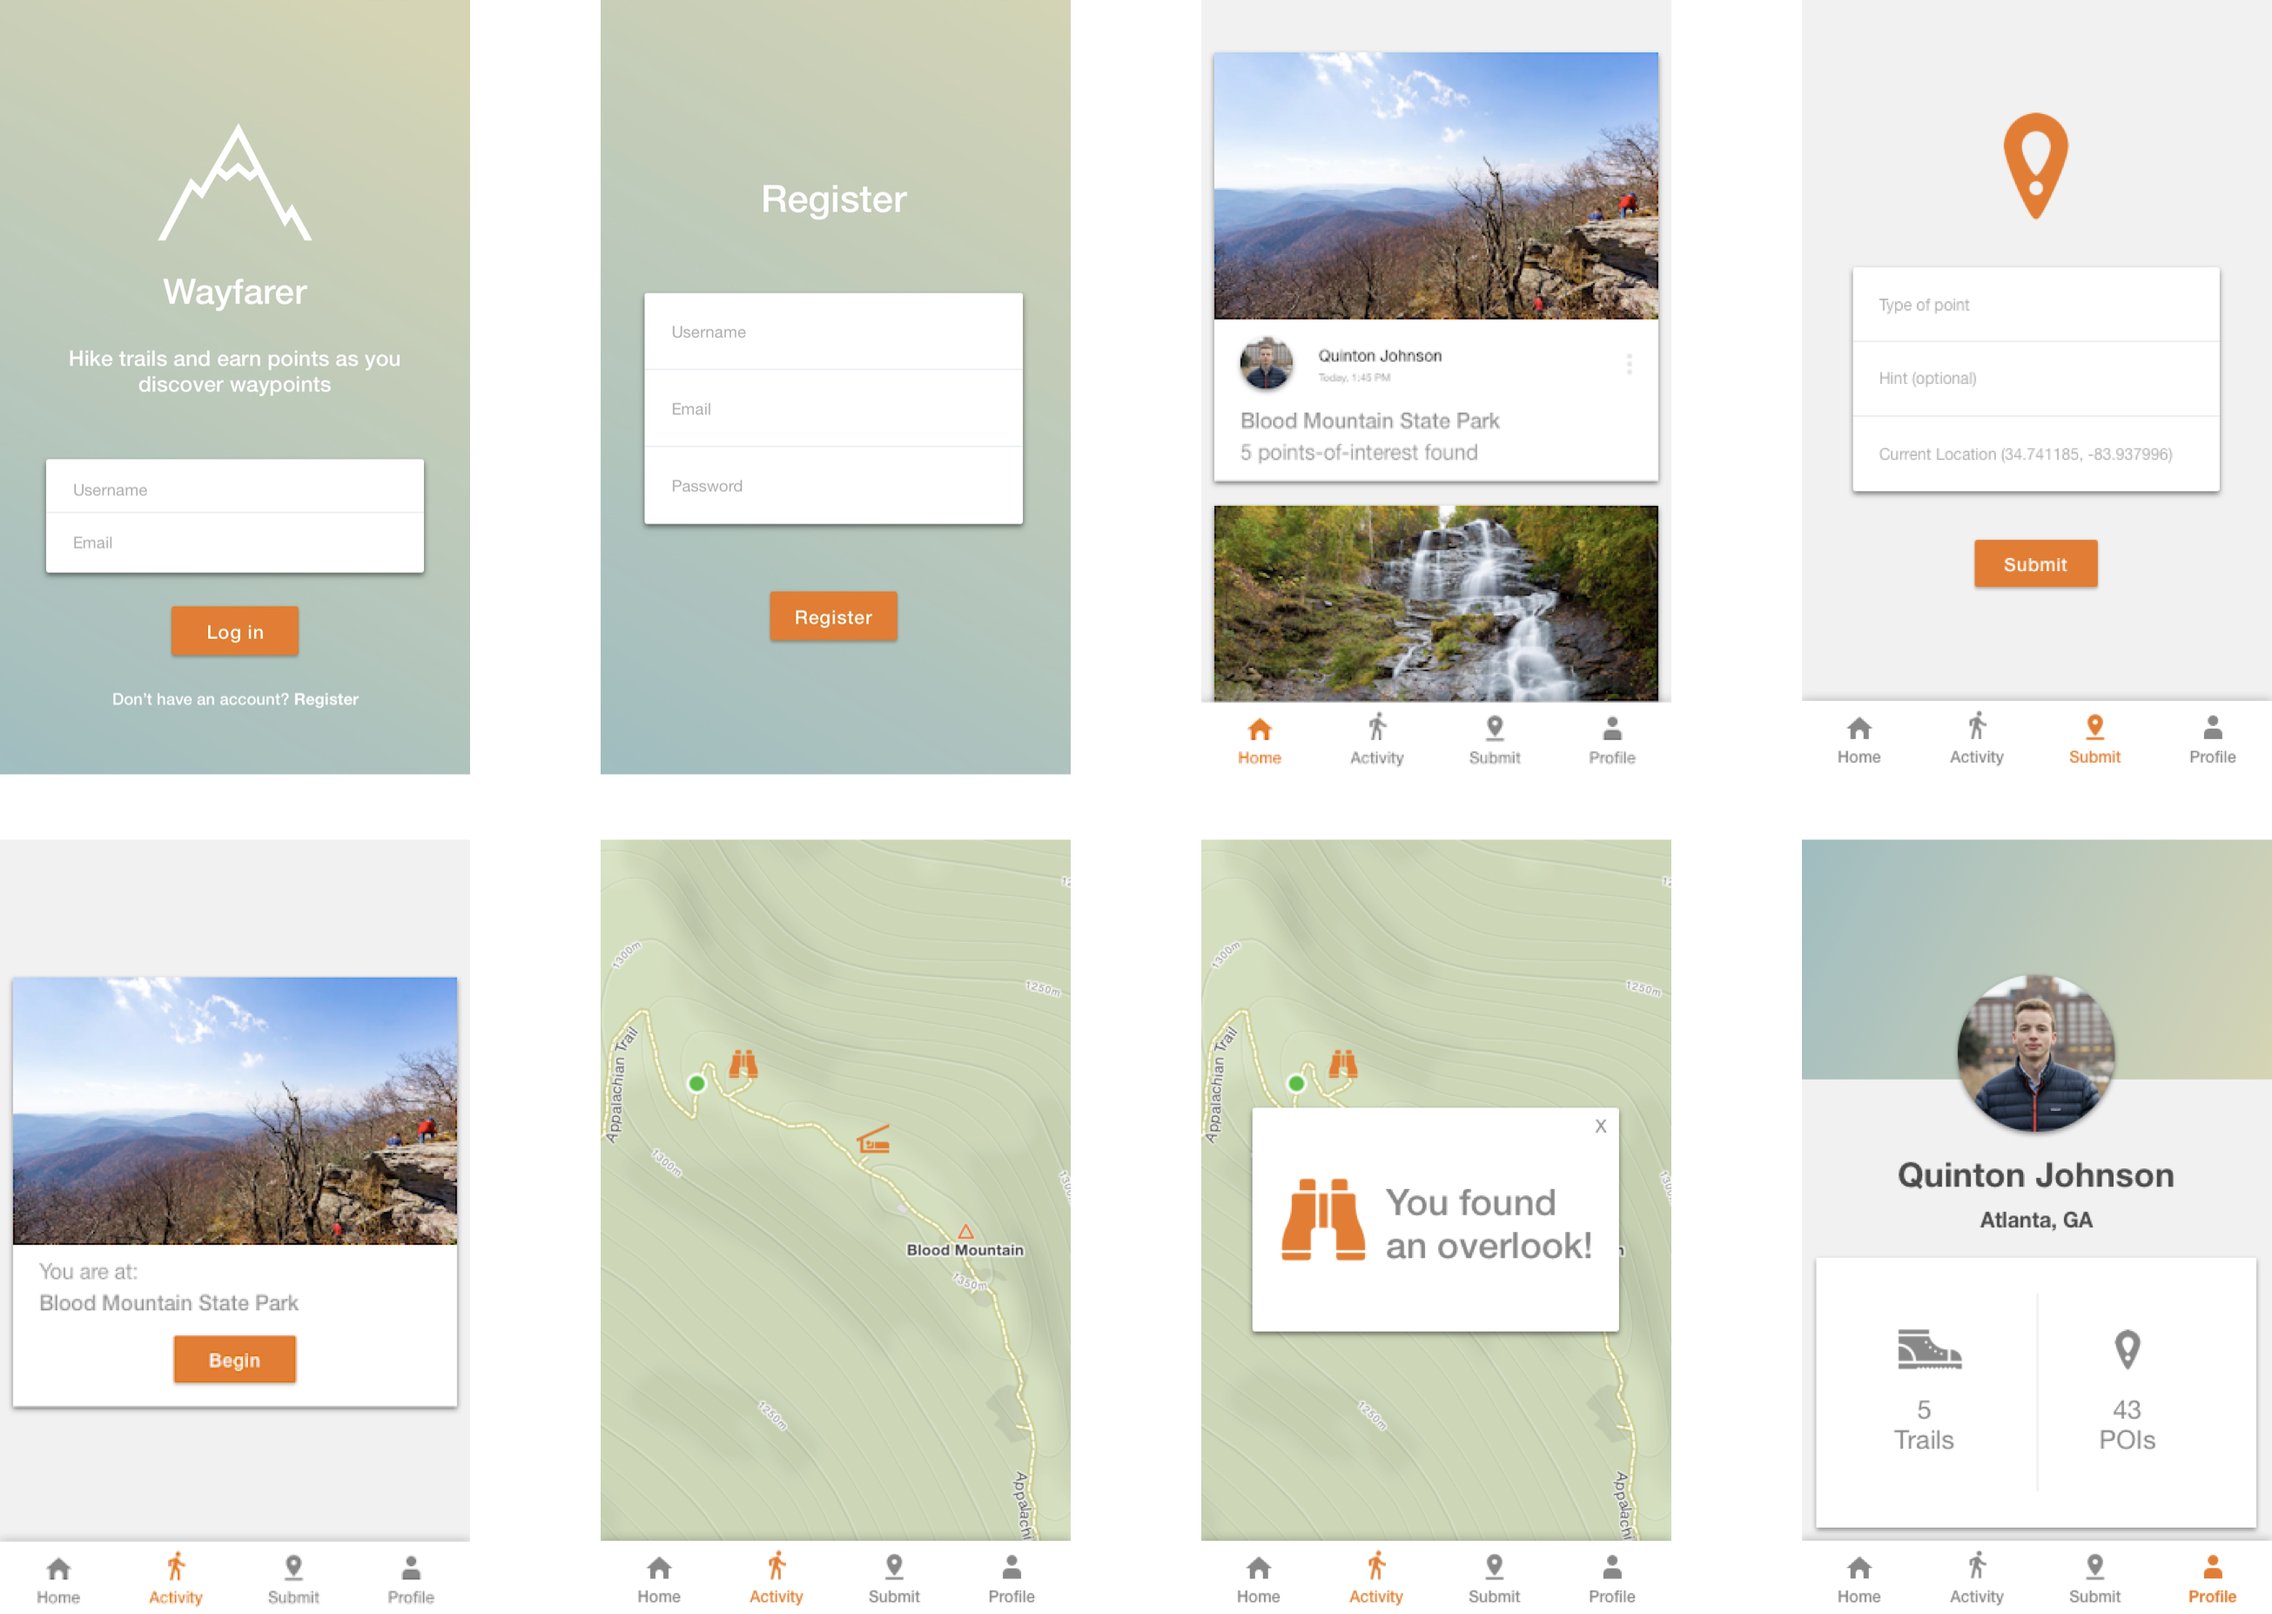
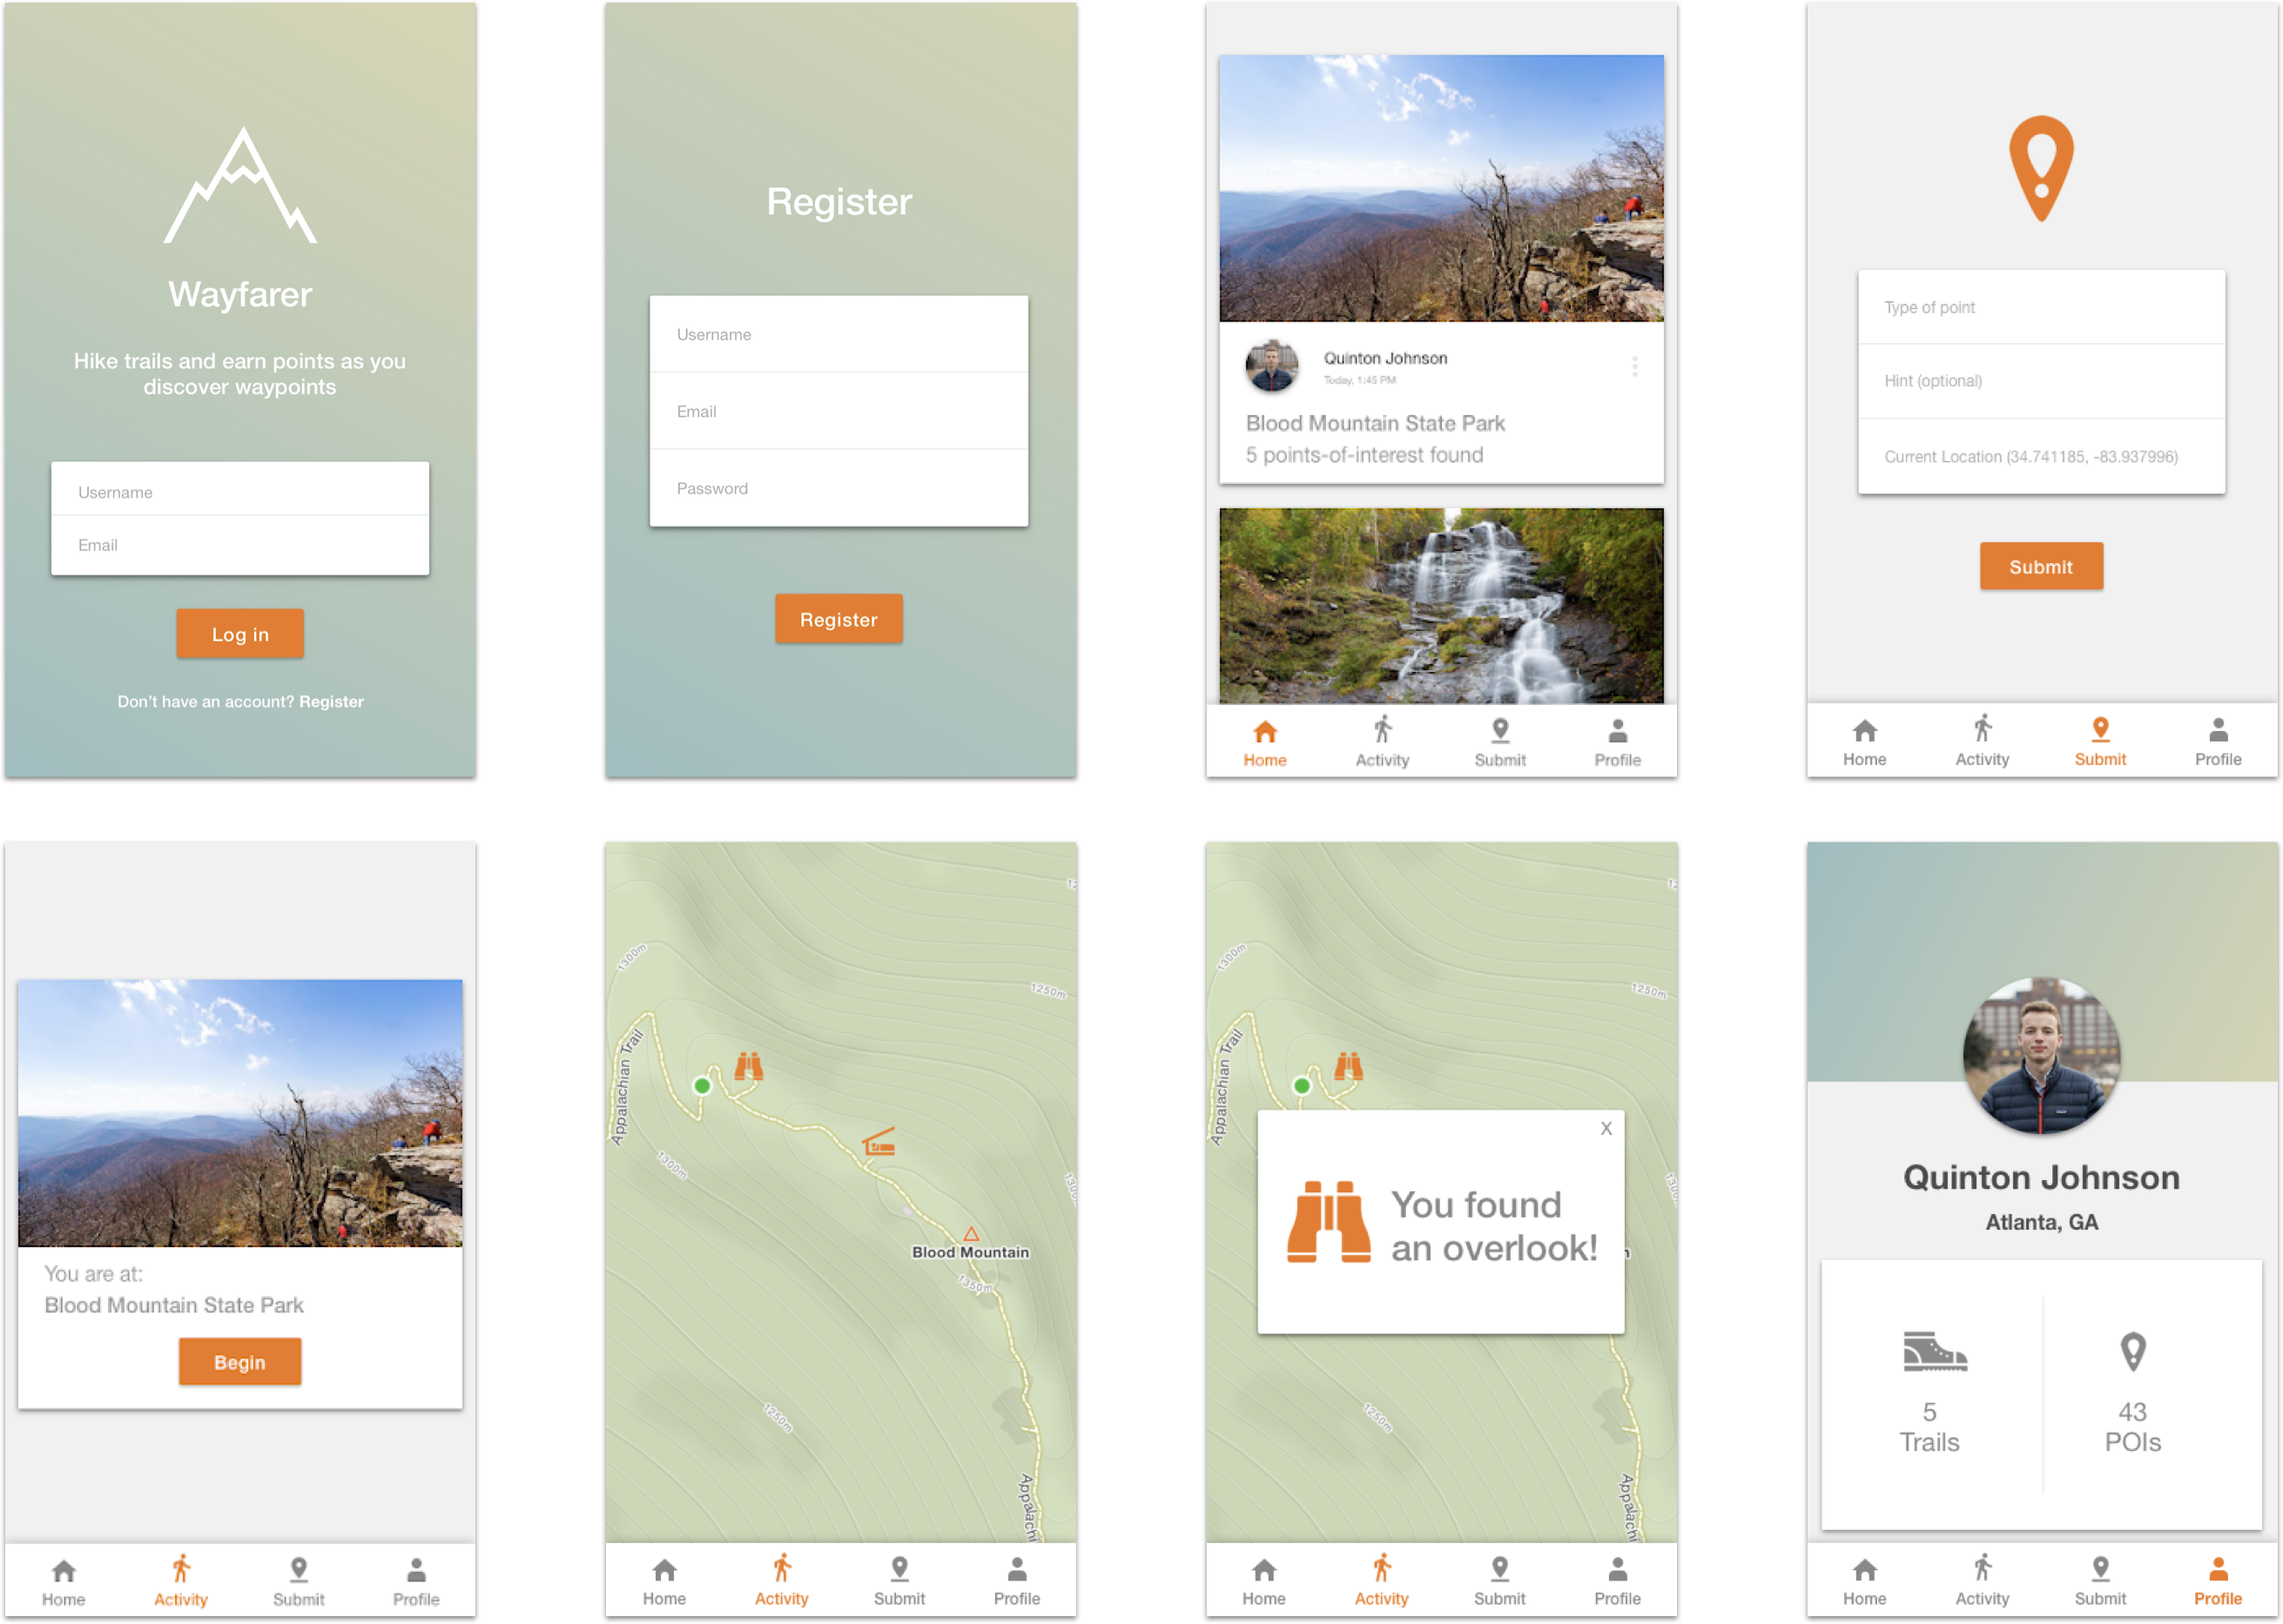
Updating visuals and adding Roadie

diff --git a/src/pages/work/wayfarer.jsx b/src/pages/work/wayfarer.jsx
@@ -58,21 +58,25 @@ const Wayfarer = () => (
         <div className="bodyImgCol">
           <img alt="" src={wayfarerflow} />
         </div>
+        <p>
+          I initially began with a flow of how the user would interact with the app, from account
+          creation to finding and submitting points of interest. From here, I had a good foundation
+          to create wireframes. With these wireframes, I was able to get feedback from my teammates
+          and prospective users and then transition into a high fidelity prototype to carry out
+          testing.
+        </p>
         <div className="bodyImgCol">
           <img alt="" src={wayfarerwireframe} />
         </div>
         <p>
           We then regrouped to carry out six usability tests that included the visual and auditory
           elements of the app. These tests allowed our team to understand a few misleading aspects.
-          A few participants were confused by the &#34;Activity&#34; screen and felt as though
-          previous activities would be shown there. As a result, the name for this screen was
-          changed to &#34;Start Trail&#34;. To test our auditory cues, we played the sounds for
-          participants and had them guess what the sound could signify. These sounds included
-          finding an overlook, a water source, a campsite, and many others. Ultimately, we made a
-          few adjustments to the sound and felt that having a tutorial would be a valuable addition
-          so that new users could quickly understand the various sounds. With these tests completed,
-          our team was able to organize a final visual design and set of auditory cues to report our
-          work.
+          To test our auditory cues, we played the sounds for participants and had them guess what
+          the sound could signify. These sounds included finding an overlook, a water source, a
+          campsite, and many others. Ultimately, we made a few adjustments to the sound and felt
+          that having a tutorial would be a valuable addition so that new users could quickly
+          understand the various sounds. With these tests completed, our team was able to organize a
+          final visual design and set of auditory cues to report our work.
         </p>
         <div className="bodyImgCol">
           <img alt="" src={wayfarerapp} />

diff --git a/src/pages/work/roadie.jsx b/src/pages/work/roadie.jsx
@@ -55,17 +55,6 @@ const Roadie = () => (
           the site was responsive, and a revamping of the tip section during the process of creating
           a gig.
         </p>
-        <div className="bodyImgCol">
-          <img alt="" src={roadieflow} />
-        </div>
-        <p>
-          One change I had a significant role in was the inclusion of an instant payment feature.
-          This was a feature that was requested by numerous users throughout the lifespan of the
-          product. Allowing drivers to cash out their payment instantaneously would allow us to
-          compete with the likes of Uber and Lyft and ensure that drivers are paid when and how they
-          want. This case study will highlight my design process for taking this feature from a
-          simple user request to implementation.
-        </p>
       </div>
     </div>
   </Layout>
